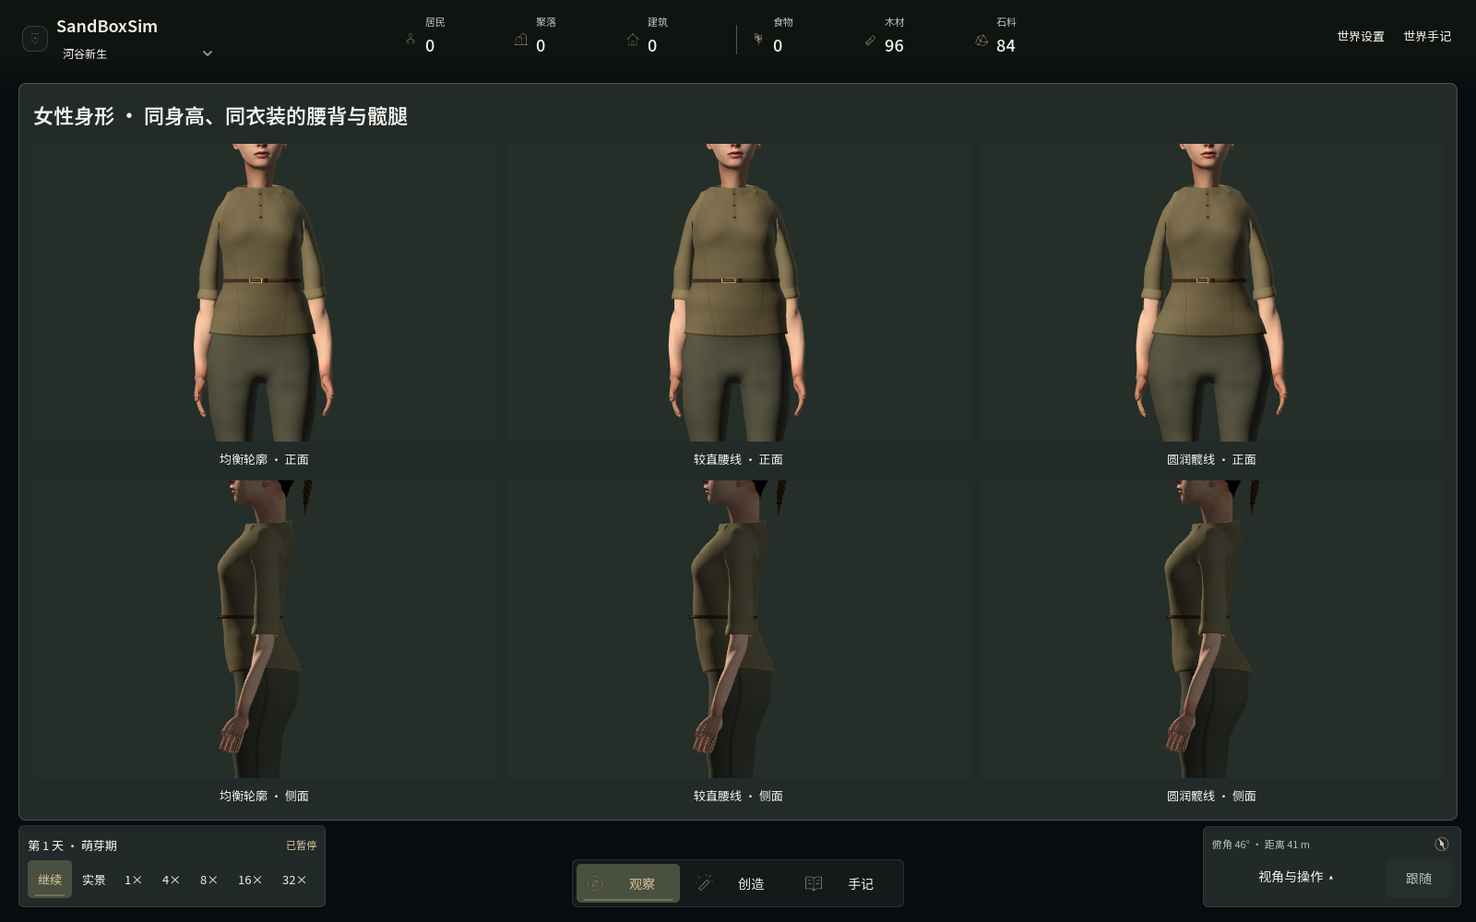
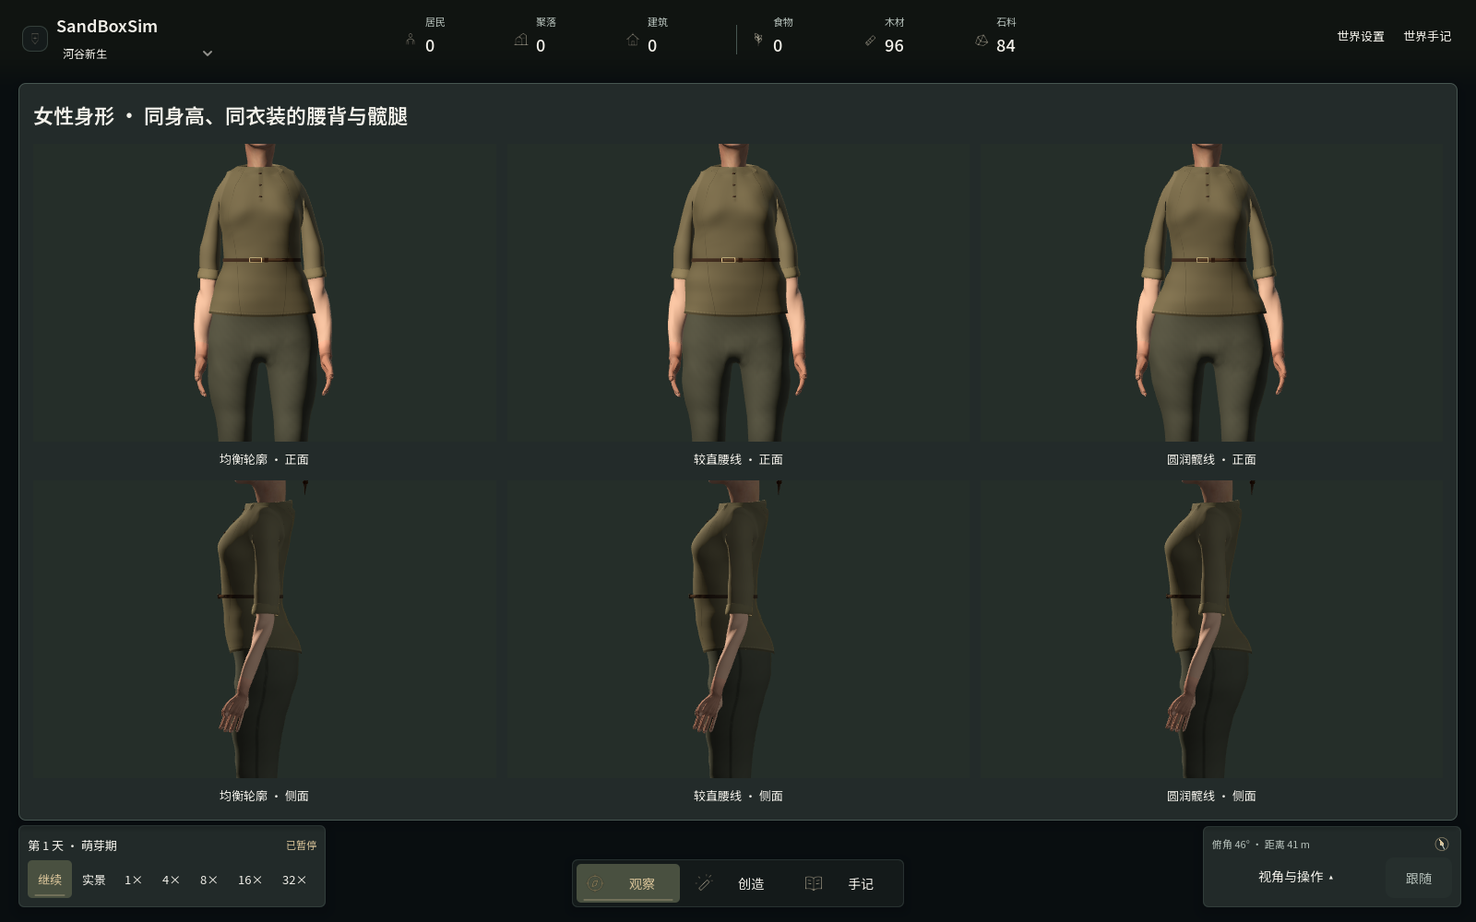
Refine female resident hip and trouser contours

diff --git a/src/SandBoxSim.Godot/NatureModels.Trousers.cs b/src/SandBoxSim.Godot/NatureModels.Trousers.cs
@@ -59,14 +59,22 @@ internal sealed partial class NatureModels
             for(int i=0;i<points.Length;i++)
             {
                 var point=rest[i];
-                // Let the front rise turn into the inseams with a rounded
-                // fabric bridge. The back and pelvic crest retain their fit.
-                float rise=TorsoRamp(.690f,.728f,point.Y)*(1-TorsoRamp(.754f,.805f,point.Y))
-                    *(1-TorsoRamp(.017f,.062f,MathF.Abs(point.X)))*TorsoRamp(.004f,.065f,-point.Z);
-                points[i]=FitFemaleTrouserWaist(FemaleHipTransition(FemalePelvicPoint(point)),torsoSupport)
-                    -new Vector3(0,.008f,.004f)*rise;
+                points[i]=FitFemaleTrouserWaist(FemaleHipTransition(FemalePelvicPoint(point)),torsoSupport);
                 freedom[i]=points[i]==rest[i]?0:1;
             }
+            ValidateTrouserWinding(rest,points,ids);
+            TransportFairingNormals(rest,points,normals,ids,freedom);
+            rest=(Vector3[])points.Clone();
+            for(int i=0;i<points.Length;i++)
+            {
+                var point=rest[i];
+                float x=MathF.Abs(point.X);
+                freedom[i]=TorsoRamp(.642f,.697f,point.Y)*(1-TorsoRamp(.748f,.795f,point.Y))
+                    *TorsoRamp(.014f,.040f,x)*(1-TorsoRamp(.105f,.145f,x))*TorsoRamp(.041f,.067f,-point.Z);
+            }
+            // Fair the joins between the shaped front rise and thigh panels
+            // as one surface, before baking the pose-dependent cloth folds.
+            FairRestSurface(points,ids,freedom,.006f,roundRelief:true);
             TransportFairingNormals(rest,points,normals,ids,freedom);
         }
         var arrays=new Godot.Collections.Array();arrays.Resize((int)Mesh.ArrayType.Max);
@@ -161,15 +169,21 @@ internal sealed partial class NatureModels
             float thigh=TorsoRamp(.548f,.620f,height)*(1-TorsoRamp(.677f,.747f,height));
             // Leave room for the knee in front and the upper thigh toward
             // the outseam. The inseam and sides of the knee carry less ease.
-            float outer=.0030f+.0030f*thigh-.0015f*knee;
+            float outer=.0030f+.0045f*thigh-.0015f*knee;
             float inner=.0005f+.0012f*thigh;
-            float front=.0035f+.0040f*knee+.0033f*thigh;
-            float back=.0030f+.0025f*thigh;
+            float front=.0035f+.0040f*knee+.0060f*thigh;
+            float back=.0030f+.0045f*thigh;
             float width=Mathf.Lerp(inner,outer,TorsoRamp(-.45f,.55f,direction.X));
             float depth=Mathf.Lerp(front,back,TorsoRamp(-.45f,.55f,direction.Y));
             points[i]+=new Vector3(MathF.Sign(point.X)*direction.X*width,0,direction.Y*depth)*panel;
             freedom[i]=panel;
         }
+        ValidateTrouserWinding(rest,points,ids);
+        TransportFairingNormals(rest,points,normals,ids,freedom);
+    }
+
+    private static void ValidateTrouserWinding(Vector3[] rest,Vector3[] points,int[] ids)
+    {
         for(int t=0;t<ids.Length;t+=3)
         {
             int a=ids[t],b=ids[t+1],c=ids[t+2];
@@ -178,22 +192,28 @@ internal sealed partial class NatureModels
             if(before.LengthSquared()>1e-20f&&before.Dot(after)<=0)
                 throw new InvalidOperationException("Trouser tailoring reverses a source triangle");
         }
-        TransportFairingNormals(rest,points,normals,ids,freedom);
     }
 
     private static Vector3 FemaleHipTransition(Vector3 p)
     {
         float x=MathF.Abs(p.X);
-        // Taper the cloth under the broadest part of the pelvis. Keep the
-        // back of the seat and the inner seam on their original support.
-        float outerHeight=TorsoRamp(.622f,.689f,p.Y)*(1-TorsoRamp(.706f,.782f,p.Y));
+        // Turn the outer panel just below the pelvis, then let it hang
+        // into the fuller upper leg. Keep the crest and waistband in place.
+        float outerHeight=TorsoRamp(.640f,.699f,p.Y)*(1-TorsoRamp(.720f,.775f,p.Y));
         float outer=TorsoRamp(.113f,.155f,x)
             *TorsoRamp(-.086f,-.034f,p.Z)*(1-TorsoRamp(.024f,.066f,p.Z));
-        float frontHeight=TorsoRamp(.637f,.695f,p.Y)*(1-TorsoRamp(.736f,.797f,p.Y));
-        float front=TorsoRamp(.050f,.079f,x)*(1-TorsoRamp(.102f,.142f,x))*TorsoRamp(.049f,.082f,-p.Z);
-        float rearHeight=TorsoRamp(.579f,.651f,p.Y)*(1-TorsoRamp(.705f,.765f,p.Y));
-        float rear=TorsoRamp(.061f,.098f,x)*(1-TorsoRamp(.133f,.170f,x))*TorsoRamp(.038f,.080f,p.Z);
-        return p+new Vector3(-MathF.Sign(p.X)*.004f*outer*outerHeight,0,.0042f*front*frontHeight-.0035f*rear*rearHeight);
+        // Add length through the front rise and bridge the slope between
+        // the two leg panels. Fade before the free inner-leg edges.
+        float riseHeight=TorsoRamp(.689f,.725f,p.Y)*(1-TorsoRamp(.745f,.802f,p.Y));
+        float rise=riseHeight*(1-TorsoRamp(.016f,.063f,x))*TorsoRamp(.007f,.062f,-p.Z);
+        float frontTurn=TorsoRamp(.691f,.714f,p.Y)*(1-TorsoRamp(.733f,.775f,p.Y))
+            *TorsoRamp(.036f,.062f,x)*(1-TorsoRamp(.112f,.148f,x))*TorsoRamp(.045f,.075f,-p.Z);
+        // Support the rear cloth just under the seat, spreading the
+        // transition over the back of the thigh.
+        float rearEase=TorsoRamp(.600f,.656f,p.Y)*(1-TorsoRamp(.696f,.759f,p.Y))
+            *TorsoRamp(.038f,.077f,x)*(1-TorsoRamp(.125f,.167f,x))*TorsoRamp(.025f,.067f,p.Z);
+        return p+new Vector3(-MathF.Sign(p.X)*.005f*outer*outerHeight,-.009f*rise,
+            .006f*rearEase-.009f*rise+.008f*frontTurn);
     }
 
     private static Vector3 FitFemaleTrouserWaist(Vector3 p,float[] support)
@@ -506,6 +526,8 @@ internal sealed partial class NatureModels
         float kneeWidthEase=2*(clothedKnee.Radius.X-bareKnee.Radius.X);
         float kneeFrontEase=bareKnee.Min.Y-clothedKnee.Min.Y;
         float thighWidthEase=2*(SampleTrouserSection(fittedSections,.65f).Radius.X-SampleTrouserSection(sourceSections,.65f).Radius.X);
+        float thighFrontEase=SampleTrouserSection(sourceSections,.65f).Min.Y-SampleTrouserSection(fittedSections,.65f).Min.Y;
+        float rearEase=GarmentDepth(points,indices,.098f,.66f,true)-GarmentDepth(original,originalIndices,.098f,.66f,true);
         float rise=0;
         for(int i=0;i<original.Length;i++)
         {
@@ -515,9 +537,10 @@ internal sealed partial class NatureModels
             if(p.Y<=.409f&&p!=points[i])throw new InvalidOperationException("Leg tailoring moves the fixed boot overlap");
         }
         if(kneeWidthEase<.001f||kneeWidthEase>.004f||kneeFrontEase<.006f||kneeFrontEase>.009f
-            ||thighWidthEase<.004f||thighWidthEase>.009f||rise<.007f||rise>.011f)
-            throw new InvalidOperationException($"Female trouser ease loses its local fit: knee={kneeWidthEase:F4}/{kneeFrontEase:F4}, thigh={thighWidthEase:F4}, rise={rise:F4}");
-        GD.Print($"FEMALE_TROUSER_DRAPE_PASS: actual knee width/front ease={kneeWidthEase*1000:F2}/{kneeFrontEase*1000:F2} mm, thigh width ease={thighWidthEase*1000:F2} mm, front rise release={rise*1000:F2} mm; fixed cuffs");
+            ||thighWidthEase<.007f||thighWidthEase>.013f||thighFrontEase<.007f||thighFrontEase>.012f
+            ||!float.IsFinite(rearEase)||rearEase<.008f||rearEase>.017f||rise<.008f||rise>.011f)
+            throw new InvalidOperationException($"Female trouser ease loses its local fit: knee={kneeWidthEase:F4}/{kneeFrontEase:F4}, thigh={thighWidthEase:F4}/{thighFrontEase:F4}/{rearEase:F4}, rise={rise:F4}");
+        GD.Print($"FEMALE_TROUSER_DRAPE_PASS: knee width/front ease={kneeWidthEase*1000:F2}/{kneeFrontEase*1000:F2} mm, thigh width/front/rear ease={thighWidthEase*1000:F2}/{thighFrontEase*1000:F2}/{rearEase*1000:F2} mm, rise release={rise*1000:F2} mm; fixed cuffs");
         float taper=SampleTrouserSection(fittedSections,.78f).Max.X-SampleTrouserSection(fittedSections,.69f).Max.X;
         if(taper<.004f||taper>.009f)
             throw new InvalidOperationException($"Female upper thigh loses its taper below the pelvis: {taper*1000:F2} mm per side");

diff --git a/src/SandBoxSim.Godot/WorldView3D.cs b/src/SandBoxSim.Godot/WorldView3D.cs
@@ -461,7 +461,7 @@ public partial class WorldView3D : MapView
             ["landscapeSurface"]="wet-bank-mosaic-v7",["sceneryContact"]="solid-scenery-corridors-v3",["habitatDetail"]="responsive-understory-v12",["vegetationSurface"]="engine-faced-v2",
             ["architecture"]="inset-joinery-v13",["garmentMaterial"]="quiet-linen-v19",["trouserSkin"]="guided-knee-v1",["upperArmFlex"]="stable-contour-v3",["shoulderSkin"]="reference-figure-v25",["shoulderMotion"]="source-clavicle-v11",["motionReference"]="cmu-143-30-v1",["shoulderSurface"]="authored-bind-surface-v3",["femaleShoulderLine"]="shared-crest-v1",["forearmSkin"]="continuous-elbow-v9",["sleeveFairing"]="rest-detail-v2",["workPose"]="raised-hammer-v1",["reachMotion"]="palm-trajectory-v2",["interface"]="resident-framing-memory-v28",["wildFlora"]="arched-bramble-v1",["fontProfile"]="noto-packaged-v1",["interfaceVisible"]=Game.InterfaceVisible,
             ["animalPresentation"]="articulated-paws-v12",["animalLocomotion"]="ground-distance-v1",["residentSurface"]="linear-skin-v9",["workEffort"]="overlapping-weight-transfer-v7",["toolMotion"]="socket-relative-stow-v5",["bodySupport"]="planted-spatial-v3",["facialTiming"]="rested-phrase-blink-v2",["handSurface"]="anatomical-regions-v1",["handlingMotion"]="supported-parcel-v19",["toolGeometry"]="forged-heads-v2",["cargoGeometry"]="bound-timber-v2",["equipmentAttachment"]="surface-holster-v2",["socialMotion"]="paired-conversation-v11",["spearMotion"]="guarded-thrust-v1",["waterSurface"]="shore-activity-v7",["wristContour"]="continuous-source-v2",
-            ["hairline"]="framed-source-root-v2",["femaleGroom"]="scalp-guided-plait-v1",["garmentFit"]="continuous-drape-v36",["reedPanicle"]="connected-axis-v1",["bodyPresentation"]="continuous-drape-v29",["bodyFrame"]="reference-contour-physique-v31",["femaleBodyBuild"]="regional-builds-v1",["femaleRearShoulder"]="diffused-yoke-v2",["femaleLowerPanel"]="supported-fall-v2",["neckContour"]="relaxed-neckline-v7",["faceContour"]="balanced-adult-v3",["forearmProfile"]="curvature-flow-v9",["residentLocomotion"]="captured-boot-rockers-v9",["gaitReference"]=ResidentGaitCapture.Version,["actionReference"]=ResidentActionCapture.Version,["armSwing"]="captured-spatial-swing-v8",["motionStyle"]="captured-standing-and-stride-v7",["limbCoordination"]="hinge-carry-v4" };
+            ["hairline"]="framed-source-root-v2",["femaleGroom"]="scalp-guided-plait-v1",["garmentFit"]="continuous-drape-v37",["femaleTrouserFit"]="supported-thigh-v1",["reedPanicle"]="connected-axis-v1",["bodyPresentation"]="continuous-drape-v29",["bodyFrame"]="reference-contour-physique-v31",["femaleBodyBuild"]="regional-builds-v1",["femaleRearShoulder"]="diffused-yoke-v2",["femaleLowerPanel"]="supported-fall-v2",["neckContour"]="relaxed-neckline-v7",["faceContour"]="balanced-adult-v3",["forearmProfile"]="curvature-flow-v9",["residentLocomotion"]="captured-boot-rockers-v9",["gaitReference"]=ResidentGaitCapture.Version,["actionReference"]=ResidentActionCapture.Version,["armSwing"]="captured-spatial-swing-v8",["motionStyle"]="captured-standing-and-stride-v7",["limbCoordination"]="hinge-carry-v4" };
         quality["taskReference"]=ResidentActionCapture.TaskVersion;
         quality["toolContacts"]="furrow-edge-and-work-stance-v1";
         if(galleries is {Length:>0})quality["galleries"]=galleries;

diff --git a/src/SandBoxSim.Godot/ModelGallery.cs b/src/SandBoxSim.Godot/ModelGallery.cs
@@ -87,7 +87,7 @@ internal partial class ModelGallery : PanelContainer
             var names=new[]{"均衡轮廓","较直腰线","圆润髋线"};
             for(int view=0;view<2;view++)for(int i=0;i<builds.Length;i++)
                 Closeup(grid,names[i]+(view==0?" · 正面":" · 侧面"),models.Resident(55,false,JobType.None,builds[i]),
-                    .87f,new(0,.98f,0),view==0?new(0,.025f,4):new(4,.025f,0),true);
+                    .87f,new(0,.92f,0),view==0?new(0,.025f,4):new(4,.025f,0),true);
         }
         else if(Collection=="body-frames")
         {

diff --git a/docs/development/models.md b/docs/development/models.md
@@ -158,9 +158,9 @@
 
 女性设计沿用自然匀称、曲线柔和的方向。胸前采用更宽的纵向重分配，来源前向塑形为宽缓的上胸与胸下接续；腰侧适度放松，后腰与后侧骨盆分别建立连续弧线，上腿外侧接入骨盆。关节辅助点固定，统一米制映射的总位移仍限于 18 毫米；来源测试在 1,620 个三维位置检查双侧对称、正向变形及原有 Jacobian 范围，不通过放宽上限获得通过。这里的比例和系数是角色美术选择，不是女性身体或吸引力的统一标准。
 
-`femaleShoulderLine=shared-crest-v1` 将领口往肩头的衣片落势延伸至袖山两侧。共享接缝在静止绑定姿态中一起圆顺，再生成蒙皮和抬臂修形，减少外肩高出台面的轮廓。领口边缘与袖口沿原有接触约束定位。`femaleLowerPanel=supported-fall-v2` 沿腰下布纹以 24 毫米间隔采样，形成较长的侧髋过渡，并用实际裤装表面限制内收。`garmentMaterial=quiet-linen-v19` 将女性上衣的合成纱纹缩小至约毫米尺度，降低扫描纹理的对比和法线扰动，使轮廓与衣料细节分层呈现。当前衣装标识为 `garmentFit=continuous-drape-v36`。[Blender 写实基模与放松绑定姿态](https://studio.blender.org/training/realistic-human-research/use-of-base-meshes/) · [MakeHuman 的比例与体态调节](https://static.makehumancommunity.org/makehuman/docs/modeling_the_body.html)
+`femaleShoulderLine=shared-crest-v1` 将领口往肩头的衣片落势延伸至袖山两侧。共享接缝在静止绑定姿态中一起圆顺，再生成蒙皮和抬臂修形，减少外肩高出台面的轮廓。领口边缘与袖口沿原有接触约束定位。`femaleLowerPanel=supported-fall-v2` 沿腰下布纹以 24 毫米间隔采样，形成较长的侧髋过渡，并用实际裤装表面限制内收。`garmentMaterial=quiet-linen-v19` 将女性上衣的合成纱纹缩小至约毫米尺度，降低扫描纹理的对比和法线扰动，使轮廓与衣料细节分层呈现。当前衣装标识为 `garmentFit=continuous-drape-v37`。[Blender 写实基模与放松绑定姿态](https://studio.blender.org/training/realistic-human-research/use-of-base-meshes/) · [MakeHuman 的比例与体态调节](https://static.makehumancommunity.org/makehuman/docs/modeling_the_body.html)
 
-女性工装与短上衣的前后下摆分别以最多 18／12 毫米圆顺，短上衣下摆最低处为 0.842 米；腰带按来源自然腰线拟合，袖口沿用原有挂点。女性裤装采用低饱和灰橄榄色 `#747264`，配合来源骨盆和腿部截面显示体积；男性裤装保持原染色。
+女性工装与短上衣的前后下摆分别以最多 18／12 毫米圆顺，短上衣下摆最低处为 0.842 米；腰带按来源自然腰线拟合，袖口沿用原有挂点。女性裤装采用低饱和灰橄榄色 `#656356`，配合来源骨盆和腿部截面显示体积；男性裤装保持原染色。
 
 ![成人身体正侧背面](../images/resident-body-frames.png)
 
@@ -989,7 +989,9 @@ $blender = '.tools/blender-4.5.14/editor/blender-4.5.14-windows-x64/blender.exe'
 
 `bodyPresentation=continuous-drape-v29` 还包含男性肩袖最多 3 毫米的双向表面圆顺，以及女性腰胯到上腿最多 2 毫米的有界圆顺；后者在高度 0.58–0.64 米接入、0.80–0.87 米退出，横向 70–110 毫米之外逐步生效，保留腰口、裤裆和靴口。原有女性肩袖拟合保持独立，法线从实际成品网格更新，来源资产和许可不变。
 
-女性裤装在静止时额外圆顺裤裆缝两侧至上腿内侧的凹折。该修形限制在离中线 12–95 毫米、高度 0.64–0.84 米的区域，最大位移 6 毫米。上腿外侧的修形保留骨盆宽度，在下方逐渐收进，前侧的修形将大腿上缘接回骨盆前片。两个方向的局部位移各在约 4 毫米以内。`FEMALE_HIP_TRANSITION_PASS` 测量 0.69 米与 0.78 米两处成品截面的半宽差。区域划分参考同一组女性在站立、行走、上台阶和坐姿下的下肢扫描。[不同姿势的女性下肢扫描](https://kjournal.co.kr/_common/do.php?a=full&aidx=19566&b=12&bidx=1544)
+女性裤装以 `femaleTrouserFit=supported-thigh-v1` 标识。先圆顺裆缝两侧，再分别塑形前裆、上腿前片和臀下后片。前裆在中线附近增加落量，前片收顺大腿上缘的凸折，后片把臀下余量分散到大腿上段。外侧在骨盆最宽处下方逐渐收进，裤腰、内腿下段和靴口保留接合位置。修形作用于现有网格，重算局部法线并从同一静止网格生成两侧屈髋和屈膝目标。三种女性身形分别映射静止网格和姿态目标。[Blender Studio 写实角色雕塑](https://studio.blender.org/training/realistic-human-research/design-sculpting/) · [体形与姿态变形分离研究](https://graphics.stanford.edu/courses/cs468-05-fall/Papers/p408-anguelov.pdf) · [站姿与坐姿下的骨盆与皮肤表面扫描](https://pmc.ncbi.nlm.nih.gov/articles/PMC8464815/)
+
+`FEMALE_TROUSER_DRAPE_PASS` 测量成品前裆落量、上腿的宽度和前后余量，并检查靴口。`FEMALE_HIP_TRANSITION_PASS` 对照 0.69 米与 0.78 米两处成品截面的半宽。步行、作业和拾取检查沿用实际蒙皮矩阵核对裤腰、靴口、布面拉伸及左右独立屈髋。
 
 前屈时，左右裤片分别按大腿相对骨盆的实际角度混合预烘焙形状。前片由内向外斜落的浅褶旁有一道回收，后侧圆弧支撑延伸至外侧，减轻弯曲时臀腿连接处的折瘪。两侧共享一张连续五骨网格，中线、裤腰和靴口保留原绑定。`FEMALE_HIP_FOLD_PASS` 检查前片褶峰和回收的相反深度，`FEMALE_HIP_FLEX_PASS` 检查两条腿独立驱动、形变范围、静止边界和暂停状态。走路、施工和拾取的网格拉伸检查包含混合后的实际顶点。[Blender Studio 衣装姿态塑形](https://studio.blender.org/training/realistic-human-research/clothing-shapes/)
 

diff --git a/docs/development/benchmark.md b/docs/development/benchmark.md
@@ -136,9 +136,11 @@ Godot 自检包含协议拒绝测试、模型/握持几何和 UI 状态；Python
 
 ## 当前渲染版本
 
-当前渲染元数据为 `animalPresentation=articulated-paws-v12`、`interface=resident-framing-memory-v28`、`architecture=inset-joinery-v13`、`garmentMaterial=quiet-linen-v18`、`landscapeSurface=wet-bank-mosaic-v7`、`habitatDetail=responsive-understory-v12`。另外记录 `residentSurface=linear-skin-v9`、`vegetationSurface=engine-faced-v2`、`wildFlora=arched-bramble-v1`、`waterSurface=shore-activity-v7`、`wristContour=continuous-source-v2`、`hairline=framed-source-root-v2`、`femaleGroom=scalp-guided-plait-v1`、`reedPanicle=connected-axis-v1` 和 `handSurface=anatomical-regions-v1`。人物肖像的 `renderQuality.portrait.studio=continuous-inspector-v9`，并记录实际 `thumbnail` 布尔值。世界方向光 `shadowBias=2.4`，阴影距离和法线偏移仍随相机距离变化，元数据记录实际值。衣装领口与肩袖、人物布光、动物足部、建筑门窗接合及连续观察控件已改变，需重采相同场景的视觉和耗时基线；不能把不同像素覆盖与布局造成的耗时变化算作代码优化收益。`renderQuality.fontProfile=noto-packaged-v1` 记录随包字库策略，字体变化需要新视觉与耗时基线。`renderQuality.interfaceVisible` 标识界面是否显示，公开评测场景默认显示；沉浸观察不会自动成为新的评测指令。正式动物与保留的程序校准动物检查分别运行。`animal-details` 的鹿狼眼部构图已改为更近的眼眶观察，旧图像与新构图应分别采样。
+当前渲染元数据为 `animalPresentation=articulated-paws-v12`、`interface=resident-framing-memory-v28`、`architecture=inset-joinery-v13`、`garmentMaterial=quiet-linen-v19`、`landscapeSurface=wet-bank-mosaic-v7`、`habitatDetail=responsive-understory-v12`。另外记录 `residentSurface=linear-skin-v9`、`vegetationSurface=engine-faced-v2`、`wildFlora=arched-bramble-v1`、`waterSurface=shore-activity-v7`、`wristContour=continuous-source-v2`、`hairline=framed-source-root-v2`、`femaleGroom=scalp-guided-plait-v1`、`reedPanicle=connected-axis-v1` 和 `handSurface=anatomical-regions-v1`。人物肖像的 `renderQuality.portrait.studio=continuous-inspector-v9`，并记录实际 `thumbnail` 布尔值。世界方向光 `shadowBias=2.4`，阴影距离和法线偏移仍随相机距离变化，元数据记录实际值。衣装领口与肩袖、人物布光、动物足部、建筑门窗接合及连续观察控件已改变，需重采相同场景的视觉和耗时基线；不能把不同像素覆盖与布局造成的耗时变化算作代码优化收益。`renderQuality.fontProfile=noto-packaged-v1` 记录随包字库策略，字体变化需要新视觉与耗时基线。`renderQuality.interfaceVisible` 标识界面是否显示，公开评测场景默认显示；沉浸观察不会自动成为新的评测指令。正式动物与保留的程序校准动物检查分别运行。`animal-details` 的鹿狼眼部构图已改为更近的眼眶观察，旧图像与新构图应分别采样。
 
 `reachMotion=palm-trajectory-v2` 记录手掌轨迹过渡、朝向插值、错开的社交手势与循环进食表现。动作轨迹改变需要重采相同场景的视觉及耗时基线，不能与旧动作混作效率对照。
+
+`garmentFit=continuous-drape-v37`、`femaleTrouserFit=supported-thigh-v1` 记录女性裤装的髋腿轮廓与据此生成的屈髋、屈膝目标。比较 `female-builds` 时应重新采集同一分辨率的图像，该图册的视野已向下覆盖到膝部。`body-motion` 使用原相机复核静立、步行与拾取。
 
 `bodyFrame=reference-contour-physique-v31`、`faceContour=balanced-adult-v3` 和 `forearmProfile=curvature-flow-v9` 记录完整来源躯干、头脸区域与小臂体积拟合。它们改变轮廓和模型构建成本，视觉及性能对照须使用同一版本、居民身份与近远景条件。
 

diff --git a/docs/images/README.md b/docs/images/README.md
@@ -35,7 +35,7 @@
 | 内容 | 采样入口 | 配图 |
 |---|---|---|
 | 成人体型与女性衣身 | `visual-body-frames`、`visual-thorax-frames` 第 90 帧。全身图对照腰背、骨盆和上腿。女性近景更新为共享肩线、袖山和较细亚麻纹理，从正面、三刻面与侧面对照衣身 | [全身三视图](resident-body-frames.png) · [女性衣身近景](resident-thorax-detail.png) |
-| 女性个人身形 | `visual-female-builds` 第 90 帧。同一居民、同一身高和衣装的三种腰髋轮廓，正面和侧面采用相同的正交尺度 | [女性身形对照](resident-female-builds.png) |
+| 女性个人身形 | `visual-female-builds` 第 90 帧。同一居民、同一身高和衣装的三种腰髋轮廓。正面与侧面采用同一正交尺度，画面覆盖肩部至膝部附近 | [女性身形对照](resident-female-builds.png) |
 | 女性肩背与袖根 | `visual-female-shoulders` 第 90 帧。右肩背面和左肩后侧分别对照自然垂臂、抬臂 90° 和 135° | [女性肩背近景](resident-female-shoulders.png) |
 | 成人头脸 | `visual-faces`、`visual-face-frames` 第 90 帧 | [三种头脸](resident-face-detail.png) · [成人外观对照](resident-face-frames.png) |
 | 三种职业衣装 | `visual-wardrobe`、`visual-female-wardrobe` 第 90 帧。男性图册展示正背面，女性图册从前侧与后侧观察腰下垂坠、侧髋和下摆翻边 | [男性成衣](wardrobe-detail.png) · [女性成衣](resident-female-wardrobe.png) |

diff --git a/CHANGELOG.md b/CHANGELOG.md
@@ -4,6 +4,7 @@
 
 ## 2026-11-07
 
+- 重整女性裤装的髋侧、前裆和臀腿过渡。前片沿大腿落下，后片在臀下留出屈髋余量，三种身形各自保留腰髋比例。更新身形图与步行、拾取配图。
 - 女性衣身重新整理领口至肩头的落势，并将袖山和肩部接缝两侧一起收顺。腰下衣片沿更长的布纹方向过渡到侧髋，亚麻细纹缩小尺度、降低对比。更新女性形体、职业衣装、肩背与动作配图。
 - 近处居民交谈时会先转向彼此，再轮流说话和点头回应。对方离开或转为逃跑时结束交谈。猎物跨格时，猎人继续跟踪同一只动物，长矛从架势向前刺出，再收回。
 - 居民搬运后会先把包裹向腰前收拢，再腾手取物、进食或作业。放货时保留本次实际交付的包裹，双手托稳后才开始下放。松手后，画面再显示剩余库存。步态随双手承重逐渐调整。
